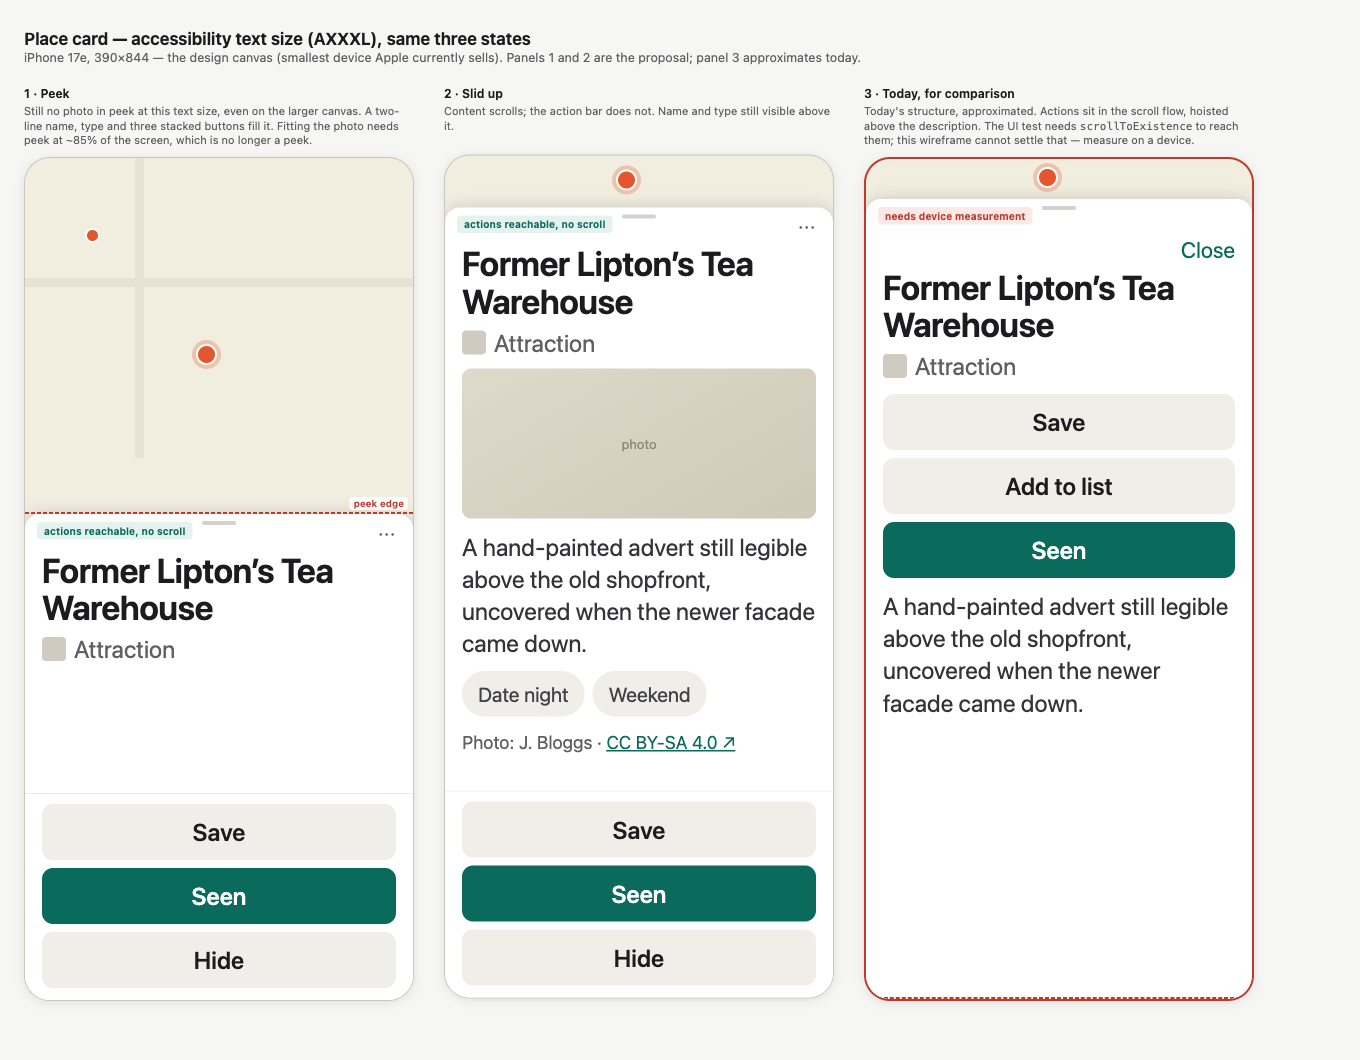
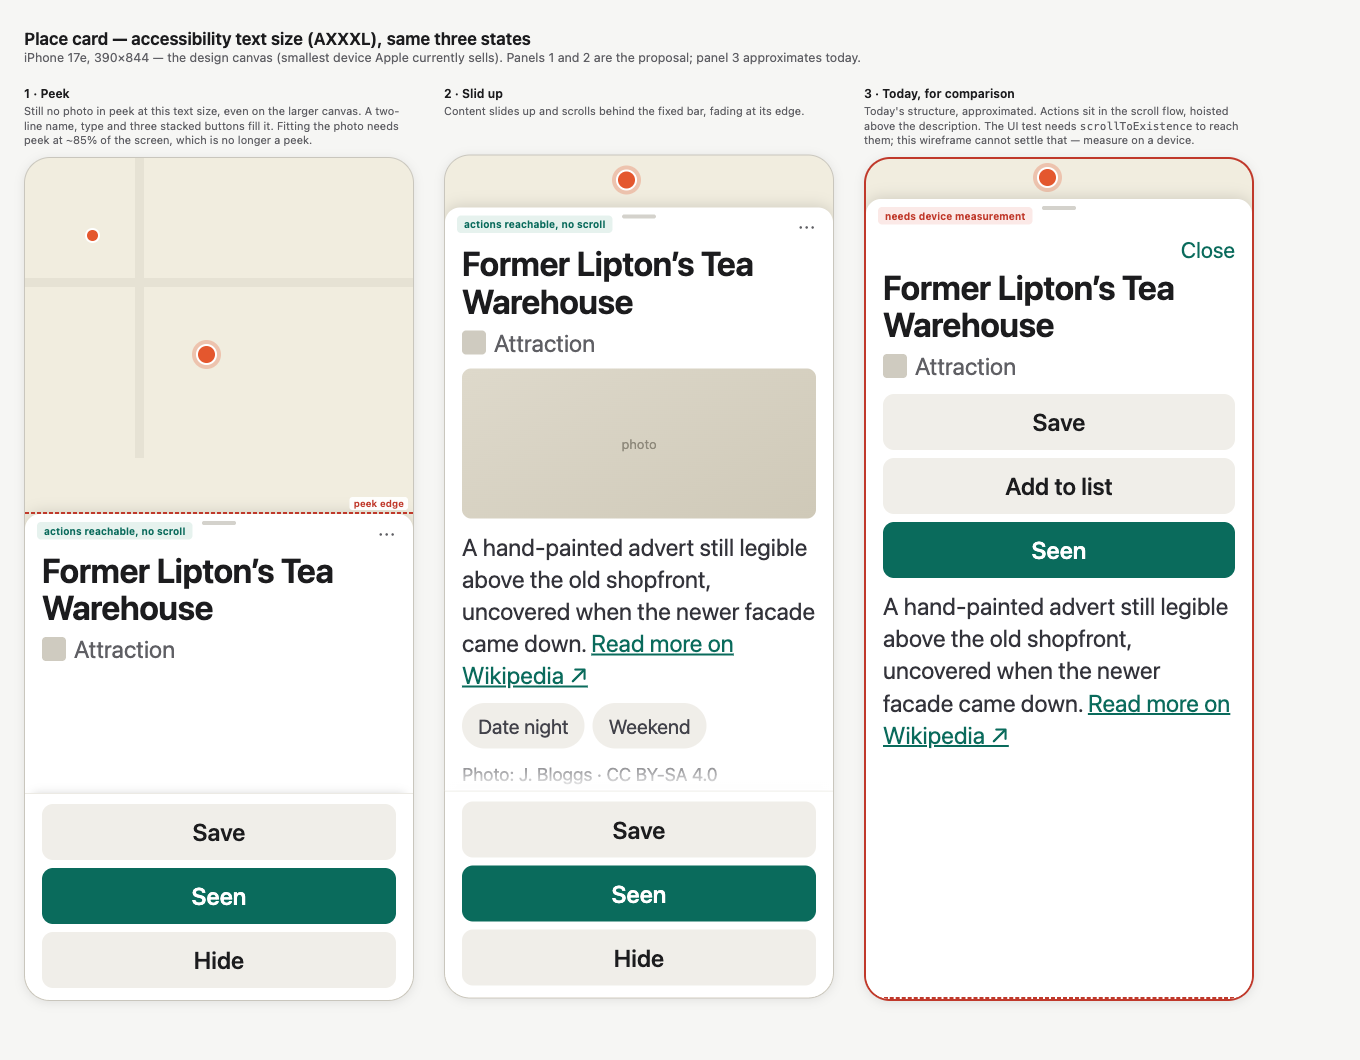
docs: WP-CARD-LAYOUT — final rulings
Actions ratified as a fixed bottom bar with content sliding and scrolling
behind it. Closes the last open placement question.

Attribution split: one outbound link to the source article at the end of
the description, source-agnostic rather than Wikipedia-specific; the photo
credit stays inert printed text. Carries a proposed one-line privacy.md
amendment for ratification rather than resolving the plain-text tension
silently.

Notes the #235 credit-line change as an iOS-side follow-up.

diff --git a/docs/design/card/wf-default.html b/docs/design/card/wf-default.html
@@ -30,8 +30,9 @@
   .chips{ display:flex; gap:7px; margin-top:11px; flex-wrap:wrap;}
   .chip{ font-size:11.5px; padding:6px 11px; border-radius:20px; background:#f0eee9; color:#4a4a4e; }
   .attr{ font-size:10.5px; color:#6b6b70; margin-top:12px; line-height:1.4; padding-bottom:13px;}
-  .attr a{ color:var(--accent); text-decoration:underline; }
-  .acts{ display:flex; gap:8px; padding:9px 17px calc(9px + env(safe-area-inset-bottom)); border-top:1px solid #eceae4; background:#fff; flex:none;}
+  .attr a{ color:inherit; text-decoration:none; }
+  .srclink{ color:var(--accent); text-decoration:underline; }
+  .acts{ box-shadow:0 -6px 10px -8px rgba(0,0,0,.22);  display:flex; gap:8px; padding:9px 17px calc(9px + env(safe-area-inset-bottom)); border-top:1px solid #eceae4; background:#fff; flex:none;}
   .btn{ flex:1; text-align:center; font-size:14px; font-weight:560; padding:10px 0; border-radius:9px; background:#f0eee9; color:#1c1c1e;}
   .btn.prom{ background:var(--accent); color:#fff; }
   .btn.ghost{ background:#f7f6f3; color:#a9a6a0; }
@@ -39,7 +40,7 @@
   .fold{ position:absolute; left:0; right:0; border-top:2px dashed #c0392b; }
   .foldlab{ position:absolute; right:5px; font-size:9.5px; color:#c0392b; font-weight:650; background:rgba(255,255,255,.9); padding:1px 4px; border-radius:3px;}
   .clip{ overflow:hidden; flex:1; }
-  .cut{ position:absolute; left:0; right:0; bottom:0; height:26px; background:linear-gradient(to bottom,rgba(255,255,255,0),#fff);}
+  .cut{ position:absolute; left:0; right:0; bottom:0; height:34px; background:linear-gradient(to bottom,rgba(255,255,255,0),#fff);}
 </style></head><body>
 
 <h1>Place card — Rob's model, default text size</h1>
@@ -83,7 +84,7 @@
   <!-- FULL -->
   <div class="col">
     <div class="cap">2 · Slid up</div>
-    <div class="capsub">Full sheet. With a short description everything fits and the sheet is mostly empty — the peek was already enough.</div>
+    <div class="capsub">Full sheet. The bar is fixed; content slides up and scrolls behind it, fading at its edge.</div>
     <div class="phone">
       <div class="map">
         <div class="road" style="left:0;top:40px;width:390px;height:9px"></div>
@@ -97,9 +98,9 @@
           <div class="name">Ghost Sign</div>
           <div class="type"><span class="gl"></span>Attraction</div>
           <div class="photo">photo</div>
-          <div class="full">A hand-painted advert still legible above the old shopfront, uncovered when the newer facade came down. Signs like this were painted directly onto brick by hand, often taking a week.</div>
+          <div class="full">A hand-painted advert still legible above the old shopfront, uncovered when the newer facade came down. Signs like this were painted directly onto brick by hand, often taking a week. <a class="srclink">Read more on Wikipedia ↗</a></div>
           <div class="chips"><span class="chip">Date night</span><span class="chip">Weekend</span></div>
-          <div class="attr">Photo: J. Bloggs · <a>CC BY-SA 4.0 ↗</a><br>OpenStreetMap · Wikipedia</div>
+          <div class="attr">Photo: J. Bloggs · CC BY-SA 4.0<br>OpenStreetMap · Wikipedia</div>
         </div>
         </div>
         <div class="acts">
@@ -123,9 +124,9 @@
           <div class="name">Ghost Sign</div>
           <div class="type"><span class="gl"></span>Attraction</div>
           <div class="photo">photo</div>
-          <div class="full">A hand-painted advert still legible above the old shopfront, uncovered when the newer facade came down in 1998. Signs like this were painted directly onto brick by hand, often taking a week to complete. The pigment was mixed with lead white, which is why so many survive a century later. Painters were called wall dogs and worked from swing stages slung over the parapet. The lettering style dates it to the 1920s, when the shop below sold tea and coffee to the dock trade. Local historians have catalogued eleven surviving examples within a mile of here.</div>
+          <div class="full">A hand-painted advert still legible above the old shopfront, uncovered when the newer facade came down in 1998. Signs like this were painted directly onto brick by hand, often taking a week to complete. The pigment was mixed with lead white, which is why so many survive a century later. Painters were called wall dogs and worked from swing stages slung over the parapet. The lettering style dates it to the 1920s, when the shop below sold tea and coffee to the dock trade. Local historians have catalogued eleven surviving examples within a mile of here. <a class="srclink">Read more on Wikipedia ↗</a></div>
           <div class="chips"><span class="chip">Date night</span><span class="chip">Weekend</span></div>
-          <div class="attr">Photo: J. Bloggs · <a>CC BY-SA 4.0 ↗</a><br>OpenStreetMap · Wikipedia</div>
+          <div class="attr">Photo: J. Bloggs · CC BY-SA 4.0<br>OpenStreetMap · Wikipedia</div>
         </div>
         <div class="cut"></div>
         </div>

diff --git a/docs/design/card/wf-ax.html b/docs/design/card/wf-ax.html
@@ -28,13 +28,14 @@
   .chips{ display:flex; gap:8px; margin-top:12px; flex-wrap:wrap;}
   .chip{ font-size:20px; padding:11px 16px; border-radius:26px; background:#f0eee9; color:#42424a; }
   .attr{ font-size:18px; color:#5f5f64; margin-top:14px; line-height:1.35; padding-bottom:14px;}
-  .attr a{ color:var(--accent); text-decoration:underline;}
-  .acts{ display:flex; flex-direction:column; gap:8px; padding:10px 17px 12px; border-top:1px solid #eceae4; background:#fff; flex:none;}
+  .attr a{ color:inherit; text-decoration:none;}
+  .srclink{ color:var(--accent); text-decoration:underline;}
+  .acts{ box-shadow:0 -6px 10px -8px rgba(0,0,0,.22);  display:flex; flex-direction:column; gap:8px; padding:10px 17px 12px; border-top:1px solid #eceae4; background:#fff; flex:none;}
   .btn{ text-align:center; font-size:24px; font-weight:560; padding:14px 0; border-radius:11px; background:#f0eee9;}
   .btn.prom{ background:var(--accent); color:#fff;}
   .btn.ghost{ background:#f7f6f3; color:#a9a6a0;}
   .clip{ overflow:hidden; flex:1; position:relative;}
-  .cut{ position:absolute; left:0; right:0; bottom:0; height:26px; background:linear-gradient(to bottom,rgba(255,255,255,0),#fff);}
+  .cut{ position:absolute; left:0; right:0; bottom:0; height:34px; background:linear-gradient(to bottom,rgba(255,255,255,0),#fff);}
   .fold{ position:absolute; left:0; right:0; border-top:2px dashed #c0392b;}
   .foldlab{ position:absolute; right:5px; font-size:9.5px; color:#c0392b; font-weight:650; background:rgba(255,255,255,.92); padding:1px 4px; border-radius:3px;}
   .bad{ border-color:#c0392b !important; }
@@ -80,7 +81,7 @@
   <!-- FULL AX -->
   <div class="col">
     <div class="cap">2 · Slid up</div>
-    <div class="capsub">Content scrolls; the action bar does not. Name and type still visible above it.</div>
+    <div class="capsub">Content slides up and scrolls behind the fixed bar, fading at its edge.</div>
     <div class="phone">
       <div class="map"><div class="pin sel" style="left:171px;top:14px"></div></div>
       <div class="sheet" style="height:790px">
@@ -92,9 +93,9 @@
             <div class="name">Former Lipton&rsquo;s Tea Warehouse</div>
             <div class="type"><span class="gl"></span>Attraction</div>
             <div class="photo">photo</div>
-            <div class="full">A hand-painted advert still legible above the old shopfront, uncovered when the newer facade came down.</div>
+            <div class="full">A hand-painted advert still legible above the old shopfront, uncovered when the newer facade came down. <a class="srclink">Read more on Wikipedia ↗</a></div>
             <div class="chips"><span class="chip">Date night</span><span class="chip">Weekend</span></div>
-            <div class="attr">Photo: J. Bloggs · <a>CC BY-SA 4.0 ↗</a></div>
+            <div class="attr">Photo: J. Bloggs · CC BY-SA 4.0</div>
           </div>
           <div class="cut"></div>
         </div>
@@ -122,7 +123,7 @@
             <div style="margin-top:14px; display:flex; flex-direction:column; gap:8px;">
               <div class="btn">Save</div><div class="btn">Add to list</div><div class="btn prom">Seen</div>
             </div>
-            <div class="full">A hand-painted advert still legible above the old shopfront, uncovered when the newer facade came down.</div>
+            <div class="full">A hand-painted advert still legible above the old shopfront, uncovered when the newer facade came down. <a class="srclink">Read more on Wikipedia ↗</a></div>
           </div>
           <div class="cut"></div>
         </div>
